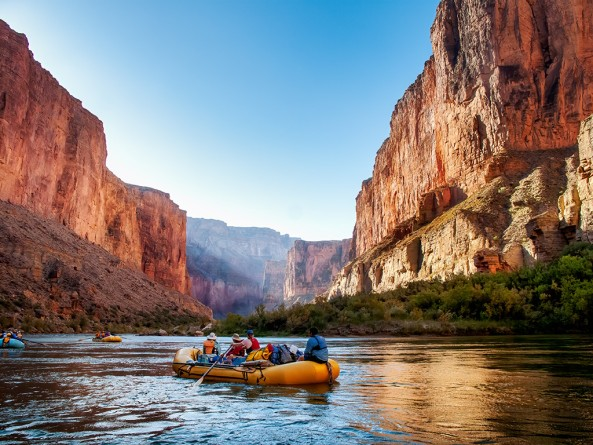
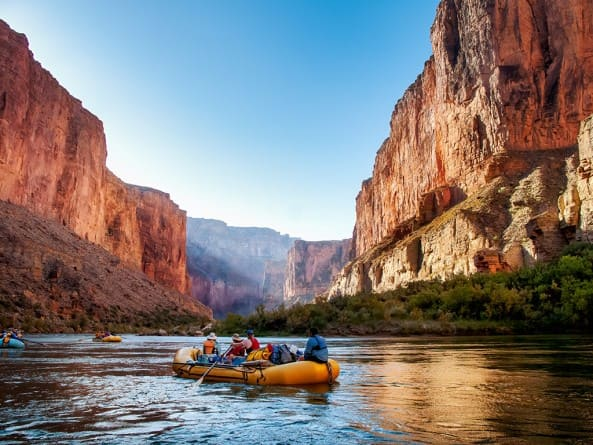
compressed hero images

diff --git a/wwr/about.html b/wwr/about.html
@@ -26,7 +26,7 @@
         <main>
             <section class="hero">
                 <h1>White Water Rafting</h1>
-                <img src="images/hero_transparency.jpeg" alt="Hero Image">
+                <img src="images/Hero.jpg" alt="Hero Image">
         
                 <section class="banner">
                         <div class="banner-text">
